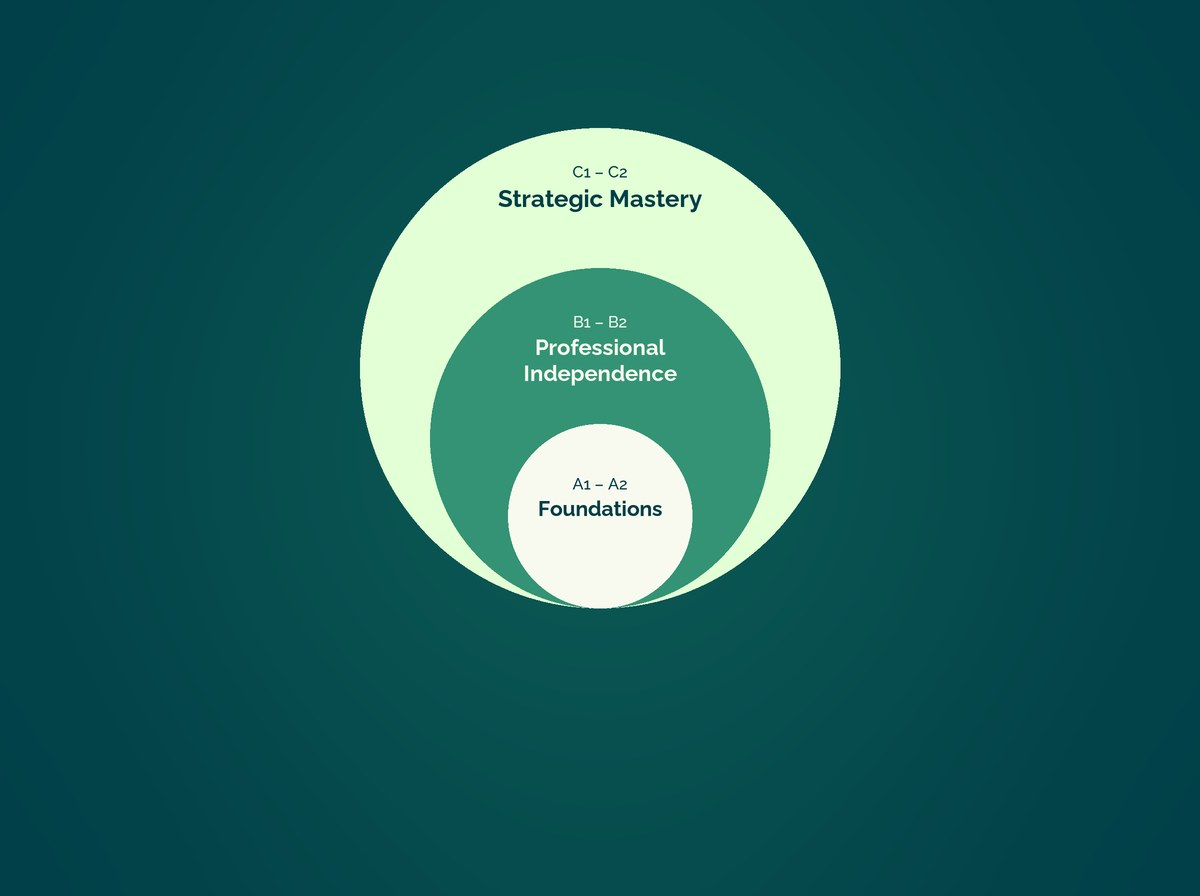
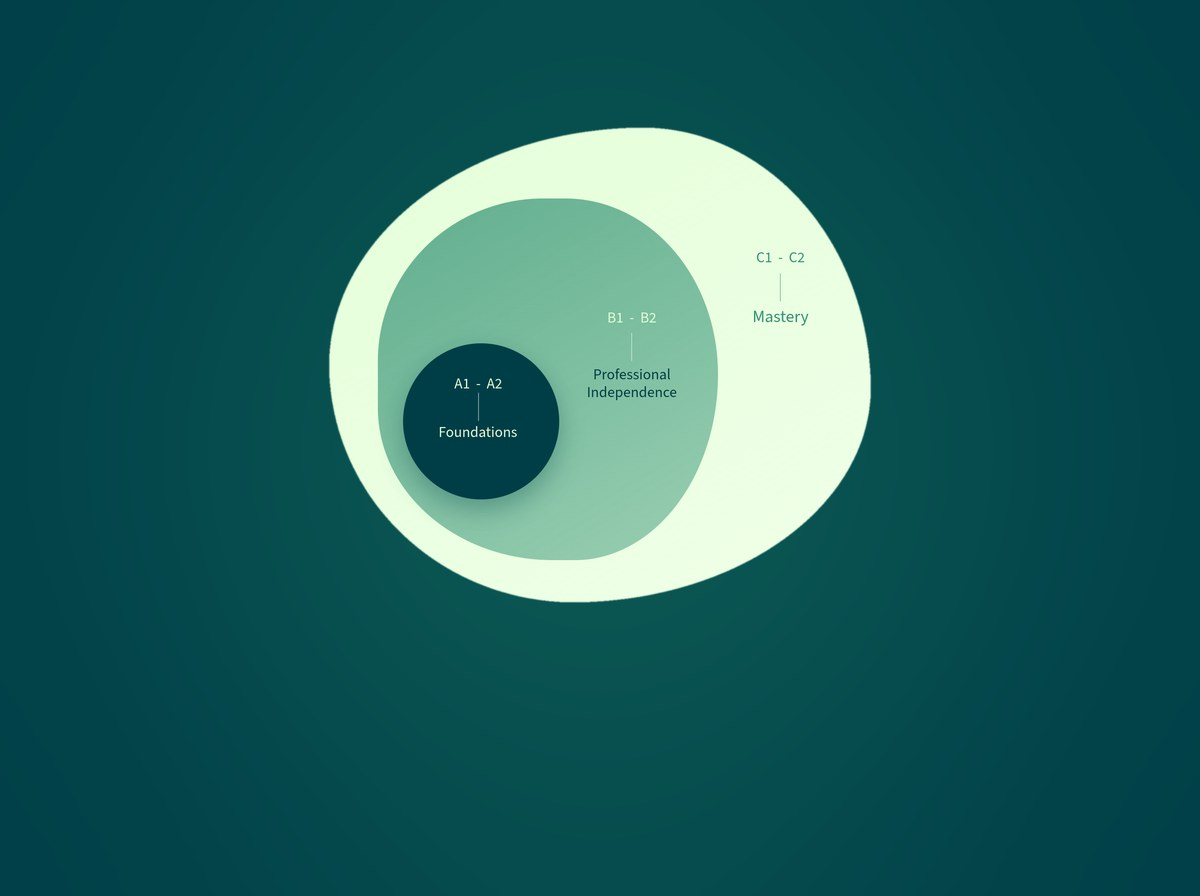
Use the provided stages diagram in the new blog post
Replace the redrawn SVG with the supplied image (background matched to the page paper colour) and rebuild the cover from it.

Changed region(s): [[0.2467, 0.125, 0.74, 0.6875], [0.4008, 0.125, 0.4933, 0.1875]]

diff --git a/blog/nivel-ingles-ideal-profesional.html b/blog/nivel-ingles-ideal-profesional.html
@@ -64,7 +64,7 @@
   .article-body ul{margin:0 0 22px;padding-left:22px;display:flex;flex-direction:column;gap:14px}
   .article-body ul li{font-family:var(--font-body);font-weight:400;font-size:17px;line-height:1.65;color:var(--text-muted)}
   .article-figure{margin:8px 0 32px}
-  .article-figure svg{display:block;width:100%;max-width:520px;height:auto;margin:0 auto}
+  .article-figure img{display:block;width:100%;max-width:520px;height:auto;margin:0 auto}
   .article-cta{display:flex;flex-direction:column;align-items:flex-start;gap:16px;background:var(--surface-glass-light);backdrop-filter:blur(21.6px);box-shadow:var(--glass-shadow-light);border:1px solid rgba(0,62,71,0.14);border-radius:25px;padding:36px;margin:48px 0 0}
   .article-cta p{margin:0;font-family:var(--font-body);font-weight:400;font-size:16px;line-height:1.5;color:var(--text-muted)}
   .article-cta a{font-family:var(--font-display);font-weight:600;font-size:16px;color:#F9FAEF;background:#349375;padding:14px 28px;border-radius:999px;transition:background-color 180ms ease}
@@ -150,21 +150,7 @@
         <p>En ORA, simplificamos la escala internacional y <strong style="color:var(--ora-deep-ocean)">la alineamos en tres estadíos operacionales de tracción y empleabilidad</strong>. Esta agrupación estratégica nos permite ir más allá de las etiquetas académicas rígidas y centrarnos de manera directa en el desempeño del profesional en situaciones reales de negocio. A continuación te contamos los niveles en los que tus colaboradores pueden capacitarse con ORA y cuál es el perfil de cada uno:</p>
 
         <figure class="article-figure">
-          <svg viewBox="0 0 600 480" role="img" aria-labelledby="fig-title fig-desc">
-            <title id="fig-title">Los 3 estadíos de progresión ORA</title>
-            <desc id="fig-desc">Tres círculos anidados: Foundations (A1–A2) dentro de Professional Independence (B1–B2), dentro de Strategic Mastery (C1–C2).</desc>
-            <circle cx="300" cy="240" r="228" fill="#E2FFD5"/>
-            <circle cx="300" cy="288" r="180" fill="#349375"/>
-            <circle cx="300" cy="352" r="116" fill="#F9FAEF"/>
-            <g text-anchor="middle" font-family="Raleway,sans-serif">
-              <text x="300" y="60" font-size="13" font-weight="500" fill="#003E47">C1 – C2</text>
-              <text x="300" y="86" font-size="20" font-weight="700" fill="#003E47">Strategic Mastery</text>
-              <text x="300" y="152" font-size="13" font-weight="500" fill="#F9FAEF">B1 – B2</text>
-              <text x="300" y="178" font-size="19" font-weight="700" fill="#F9FAEF">Professional Independence</text>
-              <text x="300" y="332" font-size="13" font-weight="500" fill="#003E47">A1 – A2</text>
-              <text x="300" y="358" font-size="20" font-weight="700" fill="#003E47">Foundations</text>
-            </g>
-          </svg>
+          <img src="/assets/blog/nivel-ingles-ideal-estadios.jpg" alt="Los 3 estadíos de progresión ORA: Foundations (A1–A2) dentro de Professional Independence (B1–B2), dentro de Mastery (C1–C2)" width="1040" height="912" loading="lazy">
         </figure>
 
         <h3>1. Foundations (Nivel Operativo | A1 – A2)</h3>
